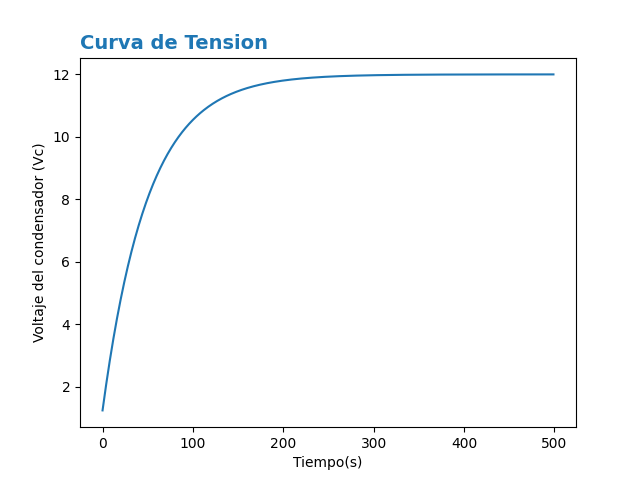
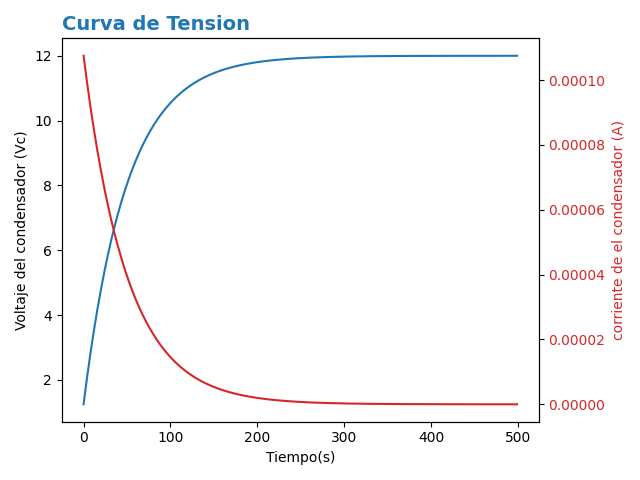
hola

diff --git a/curva con.py b/curva con.py
@@ -1,25 +1,44 @@
 import matplotlib.pyplot as plt
-import time as t
-r= 100000
-VB= 12
-C=500 * (10**-6)
-Vc0= 1.25
-e= 2.718
+
+r= 100000 # r = resistencia den ohmios
+VB= 12 # VB = voltaje de la bateria en voltios
+C=500 * (10**-6) # C = es la capacidad en faradios
+Vc0= 1.25 # voltaje inicial del condesador en voltios
+e= 2.718 # constante de euler
+
+#calcular corriente de condensador en funcon del tiempo
 def VC(t):
     var= VB - Vc0
     var2 = e ** ((-1*t)/(r*C))
     var3= var * var2
     return VB - var3
+
+
+#graficar
 fig, ax = plt.subplots()
 
-VCs = []
-Tiempo= []
-for k in range(500):
-    VCs.append(VC(k))
-    Tiempo.append(k)
+#funcion que calcula la corriente en el condensador en funcion del tiempo 
+def IC(t):
+    return (VB-VC(t)) / r
+
+Tiempo = range(500)
+ICs = [IC(t) for t in Tiempo ]
+VCs = [VC(t) for t in Tiempo]    
+
+
+
 ax.plot(Tiempo, VCs)
 ax.set_title('Curva de Tension', loc = "left", fontdict = {'fontsize':14, 'fontweight':'bold', 'color':'tab:blue'})
 ax.set_xlabel("Tiempo(s)")
 ax.set_ylabel("Voltaje del condensador (Vc)")
+
+ax1 = ax.twinx()
+color = 'tab:red'
+ax1.plot(Tiempo,ICs, color = color)
+ax1.set_ylabel("corriente de el condensador (A)", color=color)
+ax1.tick_params(axis='y', labelcolor = color)
+
+
+fig.tight_layout()
 plt.savefig('Curva_De_Carga_C.png')
 plt.show()
